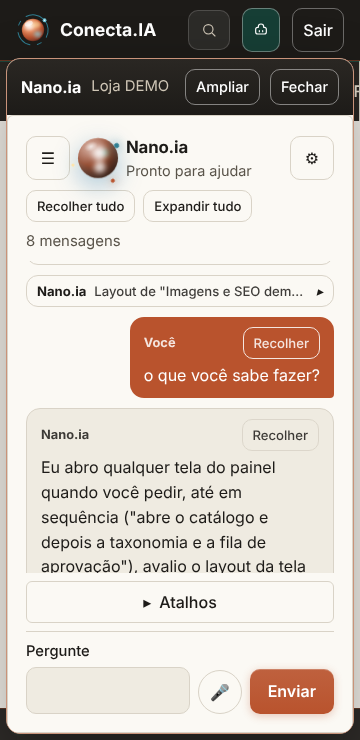
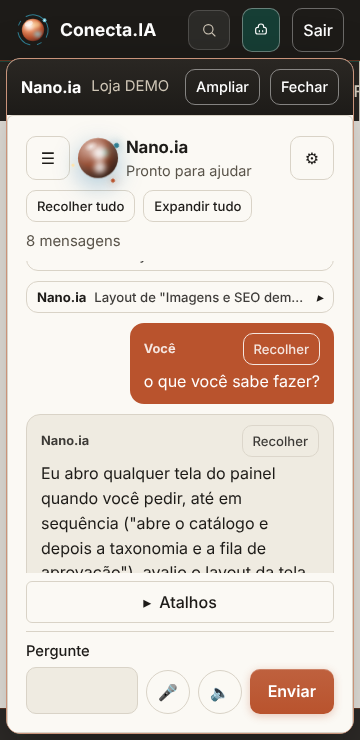
feat(painel): botao de leitura em voz alta no compositor e escolha de voz sempre visivel (mostra a voz em uso e avisa quando o aparelho tem so uma)
Claude-Session: https://claude.ai/code/session_01VMHvTDaEn6HYb7ZmrJorve

diff --git a/painel/src/paginas/Assistente.tsx b/painel/src/paginas/Assistente.tsx
@@ -1,7 +1,7 @@
 import { useEffect, useRef, useState, type FormEvent } from "react";
 import { supabase } from "../supabase.ts";
 import type { Loja } from "../lib/dados.ts";
-import { gravarPreferenciaFala, lerPreferenciaFala, useVoz } from "../lib/voz.ts";
+import { escolherVoz, gravarPreferenciaFala, lerPreferenciaFala, useVoz } from "../lib/voz.ts";
 import { Esfera, type EstadoEsfera } from "../componentes/Esfera.tsx";
 import { MensagemRetratil } from "../componentes/MensagemRetratil.tsx";
 import { Retratil } from "../componentes/Retratil.tsx";
@@ -222,9 +222,11 @@ export function Assistente({ loja, menu, aoNavegar }: { loja: Loja; menu?: Item[
         <div className="linha-voz">
           <label>Pergunte<input value={texto} onChange={(e) => setTexto(e.target.value)} maxLength={1000} /></label>
           {voz.suporteMic && <button type="button" className="sec mic" aria-pressed={voz.ouvindo} aria-label={voz.ouvindo ? "Parar de ouvir" : "Falar com o assistente"} onClick={() => (voz.ouvindo ? voz.parar() : voz.ouvir())} disabled={ocupado}>🎤</button>}
+          {voz.suporteFala && <button type="button" className="sec mic" aria-pressed={lerAlto} aria-label={lerAlto ? "Desligar a leitura das respostas em voz alta" : "Ler as respostas em voz alta"} title={lerAlto ? "Leitura em voz alta ligada" : "Leitura em voz alta desligada"} onClick={alternarFala}>{lerAlto ? "🔊" : "🔈"}</button>}
           <button disabled={ocupado || !podeEnviar || administrando || !!retentativa}>Enviar</button>
         </div>
         {voz.erro && <p className="msg-erro">{voz.erro}</p>}
+        {voz.suporteFala && lerAlto && <div className="voz-escolha"><label>Voz<select value={voz.vozEscolhida ?? ""} onChange={(e) => voz.escolherVozPreferida(e.target.value || null)}><option value="">Automática (a mais natural)</option>{voz.vozes.map((v) => <option key={v.voiceURI} value={v.voiceURI}>{v.name} ({v.lang})</option>)}</select></label><small className="suave">{voz.vozes.length === 0 ? "Nenhuma voz em português encontrada; uso a padrão do aparelho." : `Em uso: ${escolherVoz(voz.vozes, voz.vozEscolhida)?.name ?? "padrão do aparelho"}${voz.vozes.length === 1 ? " (é a única em português neste aparelho)" : ""}`}</small></div>}
         {!voz.suporteMic && <p className="aviso-voz">Este navegador não oferece microfone para sites. Use o campo de texto.</p>}
       </form>
       </div>
@@ -238,8 +240,6 @@ export function Assistente({ loja, menu, aoNavegar }: { loja: Loja; menu?: Item[
         </select></label>
         <p className="suave">Os estados refletem a configuração e o limite de uso; a API será consultada somente ao enviar.</p>
         <p className="suave">{provedor ? "Se o provedor falhar, escolha outro; não há troca automática." : "Só consultas por palavras-chave, sem enviar a um provedor de IA."} {config.persistente && provedor ? ` Histórico privado no servidor, com retenção de ${config.retencao_dias} dias por mensagem.` : " Histórico temporário nesta tela."}</p>
-        {voz.suporteFala && <label className="linha" style={{ display: "flex" }}><input type="checkbox" style={{ width: "auto", minHeight: "auto" }} checked={lerAlto} onChange={alternarFala} /> Ler as respostas em voz alta</label>}
-        {voz.suporteFala && lerAlto && voz.vozes.length > 1 && <label>Voz<select value={voz.vozEscolhida ?? ""} onChange={(e) => voz.escolherVozPreferida(e.target.value || null)}><option value="">Automática (a mais natural disponível)</option>{voz.vozes.map((v) => <option key={v.voiceURI} value={v.voiceURI}>{v.name} ({v.lang})</option>)}</select></label>}
         {(voz.suporteMic || voz.suporteFala) && <p className="aviso-voz">A voz usa o reconhecimento do próprio navegador; no Chrome o áudio é processado pelo Google. O Conecta.IA não guarda o áudio; o texto segue a política de histórico indicada acima.</p>}
         </div>
       </aside>

diff --git a/painel/src/shell.css b/painel/src/shell.css
@@ -337,3 +337,4 @@ html button.balao-genesis:hover:not(:disabled) { background: radial-gradient(120
 }
 .dock-agente .chat, .abas .chat { grid-template-columns: minmax(0, 1fr); }
 .bolha-linha { min-width: 0; overflow: hidden; }
+.voz-escolha { display: grid; gap: 4px; } .voz-escolha select { min-width: 0; max-width: 100%; } .voz-escolha small { overflow-wrap: anywhere; }
